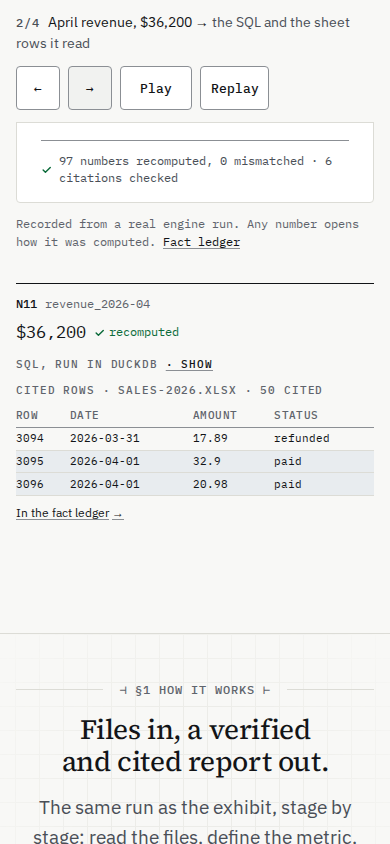
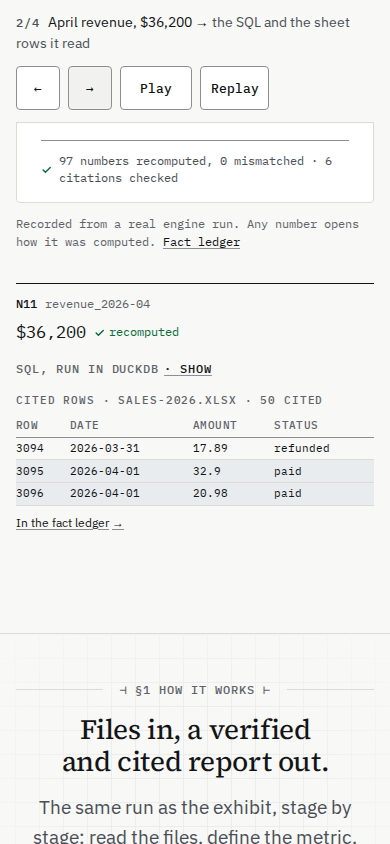
fix(site): walkthrough review fixes — 24px SQL toggle with show/hide, chip hit box above the next line, notes room re-measured on resize, hold on figures and notes only, quiet live region while autoplaying, landing frame ticks clipped (no 5px scroll at 1000–1180px)

Changed region(s): [[0.0308, 0.4005, 0.4, 0.6469], [0.6462, 0.4621, 0.8615, 0.6161], [0.4308, 0.4005, 0.6154, 0.6161]]

diff --git a/scripts/site/browser/site.spec.ts b/scripts/site/browser/site.spec.ts
@@ -96,12 +96,15 @@ test.describe("no horizontal scroll at 360 px", () => {
   }
 });
 
-test("no horizontal scroll where the docs' margin column is narrowest (1000–1100 px)", async ({ page }) => {
+test("no horizontal scroll from 1000 to 1100 px: the docs' narrowest margin column, the landing page's frame", async ({ page }) => {
   for (const width of [1000, 1024, 1072, 1100]) {
     await page.setViewportSize({ width, height: 800 });
-    await page.goto(`${BASE}/learn/stages/analysis/`, { waitUntil: "networkidle" });
-    const over = await page.evaluate(() => document.documentElement.scrollWidth - document.documentElement.clientWidth);
-    expect(over, `${width} px`).toBeLessThanOrEqual(0);
+    // The Learn page (the margin column's narrowest) and the landing page (its frame meets the screen edge up to 1180).
+    for (const path of [`${BASE}/learn/stages/analysis/`, LANDING]) {
+      await page.goto(path, { waitUntil: "networkidle" });
+      const over = await page.evaluate(() => document.documentElement.scrollWidth - document.documentElement.clientWidth);
+      expect(over, `${path} at ${width} px`).toBeLessThanOrEqual(0);
+    }
   }
 });
 
@@ -164,7 +167,7 @@ test("hero: the verification replays once, figure by figure, within 2.5 s", asyn
 test("hero: at 1440 the walkthrough advances on a timer, step 1's note open from the start; nothing is pinned to the scroll", async ({
   page,
 }) => {
-  test.setTimeout(60_000);
+  test.setTimeout(90_000);
   await page.setViewportSize({ width: 1440, height: 900 });
   await page.goto(LANDING);
   const wrap = page.locator("[data-exhibit]");
@@ -190,6 +193,20 @@ test("hero: at 1440 the walkthrough advances on a timer, step 1's note open from
     await expect(open).toHaveCount(1);
     await expect(open).toHaveAttribute("id", `aa-note-${steps[k - 1]}`);
     await expect(page.locator(`.aa-exhibit a.aa-chip[data-note="${steps[k - 1]}"]`)).toHaveAttribute("aria-expanded", "true");
+    if (k === 1) {
+      // Pause stops it and Play resumes (WCAG 2.2.2); the pointer on a figure holds it, and leaving lets it run.
+      const pause = page.locator("[data-walk-pause]");
+      await pause.click();
+      await expect(pause).toHaveText("Play");
+      await page.waitForTimeout(5_000);
+      await expect(cap(1)).toBeVisible();
+      await pause.click();
+      await expect(pause).toHaveText("Pause");
+      await page.locator(`.aa-exhibit a.aa-chip[data-note="${steps[0]}"]`).hover();
+      await page.waitForTimeout(5_000);
+      await expect(cap(1)).toBeVisible();
+      await page.mouse.move(5, 5);
+    }
     if (k === 2) {
       // The change's SQL input: its SQL (open beside the exhibit) and the sheet rows it read.
       await expect(open.locator(".aa-note-sql")).toBeVisible();
@@ -214,6 +231,55 @@ test("hero: at 1440 the walkthrough advances on a timer, step 1's note open from
   await expect(wrap).toHaveAttribute("data-anim", "done", { timeout: 4_000 });
   await page.locator("[data-walk-next]").click();
   await expect(cap(1)).toBeVisible();
+});
+
+test("chips and the SQL toggle are at least 24 px tall to tap or click, and the hit box reaches above and below the chip", async ({
+  page,
+}) => {
+  await page.setViewportSize({ width: 1440, height: 900 });
+  const reach = (sel: string) =>
+    page
+      .locator(sel)
+      .first()
+      .evaluate((el) => {
+        // Mid-screen, so every probed point is inside the viewport (elementFromPoint returns nothing outside it).
+        el.scrollIntoView({ block: "center" });
+        const r = el.getBoundingClientRect();
+        const x = r.left + r.width / 2;
+        const hit = (y: number) => {
+          const at = document.elementFromPoint(x, y);
+          return at === el || el.contains(at);
+        };
+        // The tallest run of points that land on the element, in 0.5px steps through a 40px band around it.
+        let best = 0;
+        let run = 0;
+        for (let y = r.top - 20; y <= r.bottom + 20; y += 0.5) {
+          run = hit(y) ? run + 0.5 : 0;
+          best = Math.max(best, run);
+        }
+        return { height: best, above: hit(r.top - 4), below: hit(r.bottom + 4) };
+      });
+  await page.emulateMedia({ reducedMotion: "reduce" });
+  await page.goto(LANDING, { waitUntil: "networkidle" });
+  for (let k = 0; k < (await page.locator(".aa-exhibit a.aa-chip").count()); k++) {
+    const r = await reach(`.aa-exhibit a.aa-chip >> nth=${k}`);
+    expect(r.height, `exhibit chip ${k}`).toBeGreaterThanOrEqual(24);
+    expect(r.above && r.below, `exhibit chip ${k}`).toBe(true);
+  }
+  await page.goto(`${BASE}/learn/stages/analysis/`, { waitUntil: "networkidle" });
+  expect((await reach(".sl-markdown-content p a.aa-chip")).height).toBeGreaterThanOrEqual(24);
+  // The SQL toggle under 900 px.
+  await page.setViewportSize({ width: 390, height: 844 });
+  await page.emulateMedia({ reducedMotion: "no-preference" });
+  await page.goto(LANDING, { waitUntil: "networkidle" });
+  const id = JSON.parse((await page.locator("[data-exhibit]").getAttribute("data-steps")) ?? "[]")[1] as string;
+  await page.locator(`.aa-exhibit a.aa-chip[data-note="${id}"]`).click();
+  const summary = page.locator(`#aa-note-${id} details[data-fold] > summary`);
+  await summary.scrollIntoViewIfNeeded();
+  expect((await summary.boundingBox())?.height ?? 0).toBeGreaterThanOrEqual(24);
+  await summary.click();
+  await expect(page.locator(`#aa-note-${id} details[data-fold]`)).toHaveAttribute("open", "");
+  await expect(summary).toContainText("hide");
 });
 
 test("hero: stepping through the walkthrough never moves the page below it (1440, 390)", async ({ browser }) => {
@@ -287,7 +353,7 @@ test("hero: under 900 px the walkthrough advances by itself, its notes below the
   await pause.click();
   await expect(pause).toHaveText("Pause");
   // Exploring holds the timer: while the pointer is inside the exhibit no step passes; leaving lets it run again.
-  await page.locator(".aa-walk-grid").hover();
+  await page.locator(".aa-notes").hover();
   await page.waitForTimeout(5_500);
   await expect(page.locator('.aa-walk-cap[data-step="2"]')).toBeVisible();
   await page.mouse.move(195, 5);

diff --git a/apps/docs/src/styles/components.css b/apps/docs/src/styles/components.css
@@ -25,6 +25,7 @@
    Its target stays at least 24px tall (DESIGN.md §8) through a transparent hit box above and below. */
 .aa-chip {
   position: relative;
+  z-index: 1; /* its hit box stays above the next line of text, which would otherwise paint over it */
   display: inline-flex;
   align-items: center;
   padding: 0.0625rem 0.25rem;
@@ -46,7 +47,7 @@
 .aa-chip::after {
   content: "";
   position: absolute;
-  inset: -5px 0;
+  inset: -6px 0; /* from the padding box: about 5px beyond the hairline, so the target is about 28px tall */
 }
 .aa-chip:hover {
   border-color: var(--aa-ink);

diff --git a/docs/progress/STATE.md b/docs/progress/STATE.md
@@ -41,7 +41,7 @@ Since 2026-10-16 (maintainer's instruction, from PR #15 on): post the spec-revie
 | M13l Nightly quota (two-pass runs) | DONE | no | [#37](https://github.com/gfirik/agentic-analytics/pull/37) | `bunx vitest run evals/runner/test/passes.test.ts apps/cli/test/eval-args.test.ts scripts/test/evals-table.test.ts scripts/test/landing-exhibit.test.ts`; nightly: `bash scripts/eval-daily.sh full --small-model --keep-reports data/eval-reports` (`aa eval --passes 2`) | 2026-10-19 nightly pass: 21 of 30 jobs before Groq's 200k planner tokens/day ran out. Each run now takes up to two nights (the second runs only the unfinished jobs), partial only after the last pass; a configured run is named after its routes. Cloudflare Workers AI as a second free planner route DEFERRED (no token; see Deferred checks) |
 | M13l Site v3 PR 1: native pipeline stages | DONE | no | [#38](https://github.com/gfirik/agentic-analytics/pull/38) | `bun run --filter @agentic-analytics/docs build && bun run site:check:browser`; `bunx vitest run scripts/test/landing-exhibit.test.ts`; `tsx apps/docs/scripts/site-screenshots.ts --sections --out <dir>` | The pipeline scene (the README GIF's 640×480 canvas, type 32–48px on desktop and ~10px on phones) is replaced on the site by `PipelineStages.astro`: a rail of seven stops and one ledger panel per stop at the site's sizes, the finished report first; Play steps once to Report (150ms crossfade, none under reduced motion, no Play there); a stacked list without JS and under 40rem. Lighthouse (simulated mobile, 3 runs each): `/` 97/100/100/100 CLS 0, `/learn/` 97/100/100/100 CLS 0.0235 (the docs pages' existing font-swap shift: analysis 0.0233, glossary 0.0256 on the same build) |
 | M13l Site v3 PR 2: results transposed | DONE | no | [#39](https://github.com/gfirik/agentic-analytics/pull/39) | `bun run --filter @agentic-analytics/docs build && bun run site:check:browser` | §3's table turned: metrics as rows (seven, now including cause grade and recommendation relevance, the bars the smoke run misses), runs as columns. It fits 1440 and 1920 with no sideways scroll (it overflowed even at 1920). A run without rates (real public data; a partial or in-progress run) is one cell over all metric rows; sources in a `<details>`. Lighthouse (simulated mobile, 2 runs each): `/` 97/100/100/100 CLS 0, `/learn/` 97/100/100/100 CLS 0.0235 (the docs font swap) |
-| M13l Site v3 PR 3: timed walkthrough, quiet chips | IN_REVIEW | no | (PR) | `bun run --filter @agentic-analytics/docs build && bun run site:check:browser`; `tsx apps/docs/scripts/site-screenshots.ts --only hero-step` | Maintainer's D2: no scroll-pinning at any size; the walkthrough is timed everywhere (starts in view, Pause/prev/next, holds on hover or focus). The sticky section and its 2,250px track are gone (the exhibit section is as tall as its content). Step 1's note is open from the start (the empty "MARGIN · HOVER OR FOCUS" box and the 543px empty block on phones are gone); notes keep their own height (no stretched rows on phones); under 900px the SQL is folded behind "show". Chips: label size, ink-3, a light hairline, a 24px hit box |
+| M13l Site v3 PR 3: timed walkthrough, quiet chips | IN_REVIEW | no | [#40](https://github.com/gfirik/agentic-analytics/pull/40) | `bun run --filter @agentic-analytics/docs build && bun run site:check:browser`; `tsx apps/docs/scripts/site-screenshots.ts --only hero-step` | Maintainer's D2: no scroll-pinning at any size; the walkthrough is timed everywhere (starts in view, Pause/prev/next, holds on hover or focus). The sticky section and its 2,250px track are gone (the exhibit section is as tall as its content). Step 1's note is open from the start (the empty "MARGIN · HOVER OR FOCUS" box and the 543px empty block on phones are gone); notes keep their own height (no stretched rows on phones); under 900px the SQL is folded behind "show". Chips: label size, ink-3, a light hairline, a 24px hit box. Also fixes a 5px sideways scroll on the landing page from 1000 to 1180px (the frame's "+" ticks), already on main. Lighthouse (simulated mobile, 2 runs each): `/` 97/100/100/100 CLS 0, `/learn/` 97–100/100/100/100 CLS 0.0235 (the docs font swap) |
 
 Order: M0 → M1 → M2 → M3 → M4 → M5 → M6 → M7 → M8 → M9 → M10 → M11 → M12. In autopilot it runs sequentially. Parallel worktrees are an interactive option only.
 
@@ -313,6 +313,7 @@ These are checks that need something this machine doesn't have yet, such as a re
 - [M13i] The pipeline scene no longer autoplays anywhere on the site (v2: the hero exhibit is the one moment of motion; docs motion is user-triggered only); Play still loops it. The scene's own dark palette stays for the README GIF (GitHub dark mode) and is never requested by the site; scripts/test/site-light.test.ts excludes pipeline-scene.ts for that reason
 - [M13i] The sticky TOC shares the margin column with sidenotes and full-width figures: it has the page background and a height cap, notes scroll beneath it, and while a full-width figure passes under it the TOC steps aside (hidden) so the figure is never covered, and likewise for a sidenote beneath it (review round 1); without JS the TOC stays on top — apps/docs/src/components/starlight/TwoColumnContent.astro
 - [M13i] The landing page's fact ledger is collapsed until one of its rows is the link target (`:has(:target)`), so the chips still work without JS while the hero stays one screen; the margin note links to it
+- [M13l] Site v3 PR 3, two departures from the plan's wording: under 900px the notes still share one grid cell (the plan said the grid stack goes); each note now sits at the top of it at its own height, which is what removes the stretching, and the shared cell is what keeps the page still without measuring. The fold reads "SQL, run in DuckDB · show" ("· hide" when open) rather than "Show SQL": it is the note's existing caption made into the toggle, so a phone shows one line where the SQL would be — apps/docs/src/components/site/ExhibitNote.astro
 - [M13l] Site v3 PR 3 supersedes the M13k scroll-mode decisions (scroll drives the steps from 1100×704; timed only on smaller screens): by the maintainer's D2 the walkthrough is timed at every size and nothing is pinned. The step bar stays sticky under 900px only, where the notes are below the figure (a control bar, not a scroll-linked track). The notes column reserves its tallest note's room, measured once in the browser beside the exhibit; that grows the row once, below the fold or before the walkthrough starts, never while stepping — apps/docs/src/components/site/Exhibit.astro
 - [M13l] Site v3 PR 2: the results table also shows cause grade and recommendation relevance (not in the plan): the smoke run misses both bars, and a section called "results, as they are" listed only the five it met. The optional bullet mark per cell is left out (D4) — apps/docs/src/pages/index.astro
 - [M13l] Site v3 PR 1, panel content: Files shows each file's kind and how the ingester reads that kind (`READ_AS`, fixed wording per kind), not what was found in it, because `pipeline.json` has no per-file results. Verify is eight ruled cells, not a table, so the tallest panel stays short (a V1–V8 table set the shared height and left the other panels half empty). Evidence includes the run's web quote, labelled external, without its gap figure N261: that fact isn't in the landing fact ledger the chips link to. The panel box is as tall as the tallest panel (Metric), so the Report panel has about 150px of space under it at 1440; the plan's fallback (two columns at ≥ 1100px) wasn't needed for the others and was left out — apps/docs/src/components/site/PipelineStages.astro

diff --git a/apps/docs/DESIGN.md b/apps/docs/DESIGN.md
@@ -186,10 +186,10 @@ The scale (rem, root 16px; mobile values apply under 640px):
   - **The guided walkthrough.** The exhibit demonstrates itself, with no hover needed. After the verification it steps through the story's key figures, opening each one's margin note under a step indicator (`1/4 Revenue fell −17.9% → how it was computed`), with a progress rule and previous, next and replay buttons.
     - The steps are chosen from the run's data by role (`walkthrough()` in `scripts/landing-data.ts`), never by typed id: the headline change and how it was computed; its current-period SQL input with the SQL and the sheet rows it read; the driver's share of the change; the quoted document.
     - **One behaviour at every size (site v3), nothing pinned to the scroll.** The figures verify as the exhibit comes into view; then the steps advance every 4.5 seconds while the notes are on screen (beside the exhibit from 900px, below it under 900px, where the step bar stays at the top of the screen).
-    - The timer waits while the reader hovers or focuses inside the exhibit, a Pause/Play button stops it (WCAG 2.2.2), and stepping by hand pauses it. At the last step it stops and offers Play, which starts again from step 1.
+    - The timer waits while the pointer is on a figure or a note, or focus is inside the exhibit; a Pause/Play button stops it (WCAG 2.2.2), and stepping by hand pauses it. At the last step it stops and offers Play, which starts again from step 1. The step caption is announced (`aria-live`) only when the reader moves a step, not on every automatic one.
     - **Step 1's note is open from the start**, so the margin is never an empty box; its figure isn't marked until step 1.
-    - **Notes size to their own content.** The notes column keeps the room of its tallest note (measured once its contents are final, beside the exhibit; one shared grid cell below it), and each note sits at the top of that room, never stretched. The step captions share one grid cell too. So stepping never moves the page.
-    - **Under 900px the SQL is folded** behind "SQL, run in DuckDB · show" (a `<details>`), so the tallest note stays short on a phone; beside the exhibit it is open.
+    - **Notes size to their own content.** The notes column keeps the room of its tallest note (measured in the browser beside the exhibit, again when the fonts arrive or the window changes, and it only grows; one shared grid cell below 900px), and each note sits at the top of that room, never stretched. The step captions share one grid cell too. So stepping never moves the page.
+    - **Under 900px the SQL is folded** behind "SQL, run in DuckDB · show" (a `<details>`; "· hide" once open; a 24px target at label size), so the tallest note stays short on a phone; beside the exhibit it is open.
     - The step's figure takes the `mark` wash in the text, and its chip shows open. Prev and next use `aria-disabled` at the ends, so keyboard focus is never lost.
     - Step 0 says what the verifier did to what is shown: the figures recomputed and the quotes checked, counted from the notes.
     - Under reduced motion, or without JS, the steps are a static ruled list under the exhibit, each with its note (SQL unfolded); no step bar.
@@ -200,7 +200,7 @@ The scale (rem, root 16px; mobile values apply under 640px):
     - the cited sheet rows: the first cited row and its neighbours, read back from the run's DuckDB, with the cited rows in the `mark` wash;
     - for a document, the exact quote and where it is.
 
-    Esc or blur closes it, and a click pins it (for touch); letting go returns to the walkthrough's current note (step 1's before the first step). There is no hint text: the margin always holds a note.
+    Esc or blur closes it, and a click pins it (for touch); letting go returns to the walkthrough's current note (step 1's before the first step). There is no hint text: the margin holds a note except after Esc, which closes it until the next step or hover.
   - **The fact ledger.** It holds every fact behind the exhibit and is collapsed under the hero until one of its rows is the link target (`:has(:target)`). The chips link to it without JS.
   - **Caption.** A small mono caption: "Recorded from a real engine run. Any number opens how it was computed."
 - **Sidenote** (`components/learn/Sidenote.astro`, MDX):
